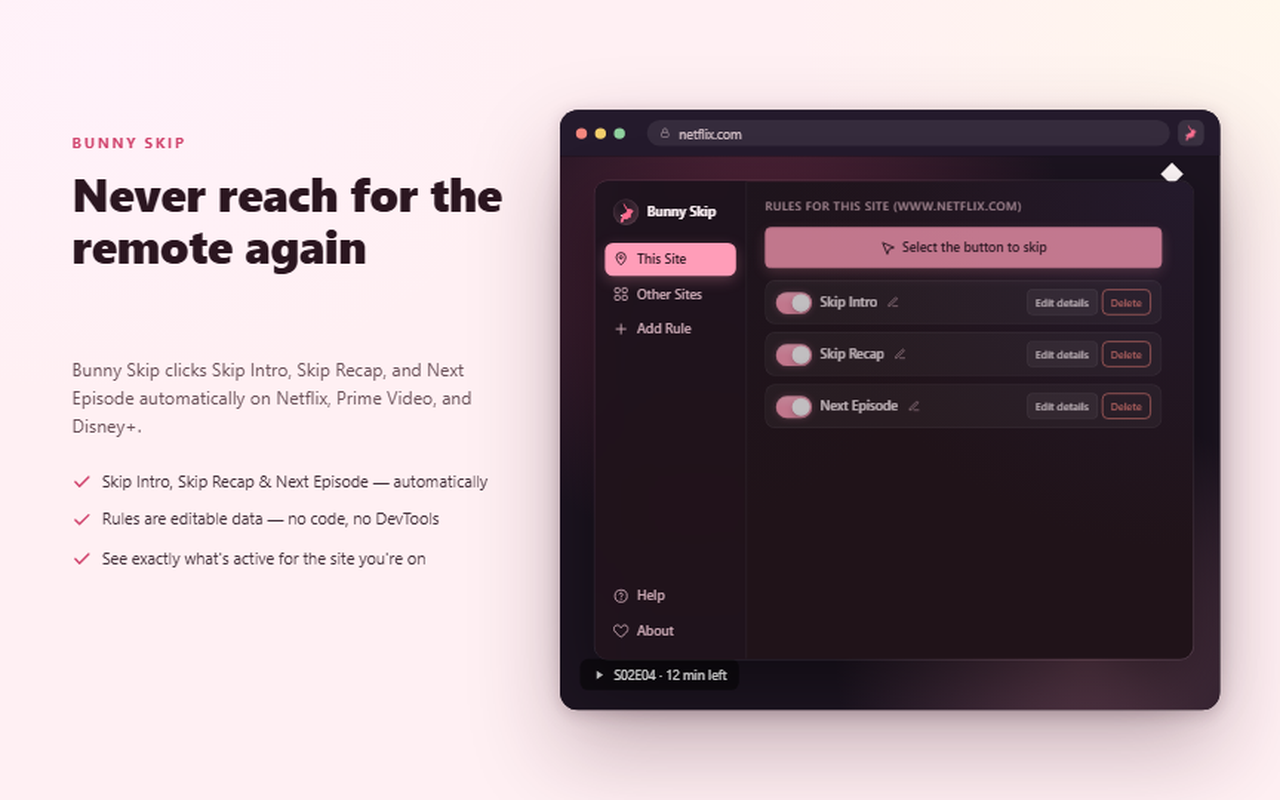
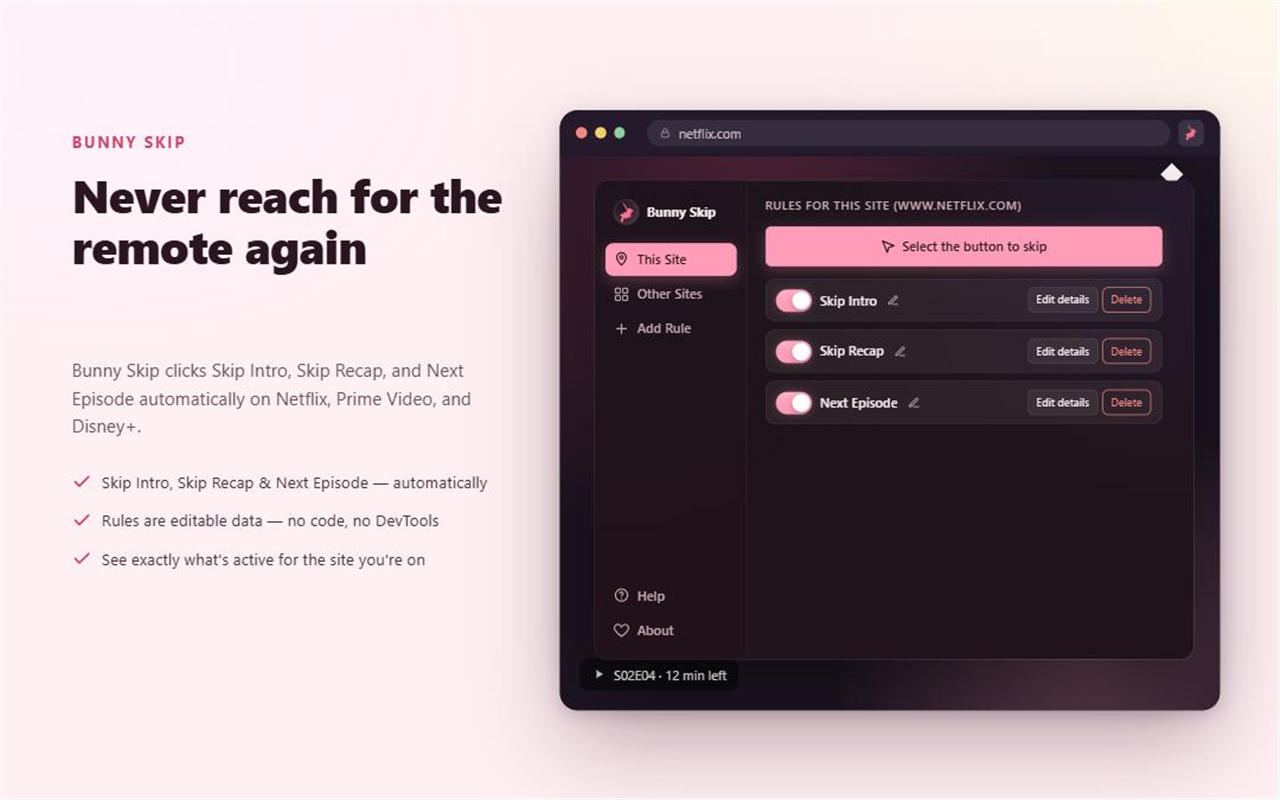
Pre-submission fixes: disable debug logging, regenerate broken store screenshots, add publishing checklist
- content/engine.js: DEBUG was left on, spamming console.debug on every
  Netflix/Prime/Disney+ page load
- store-assets: screenshot-2 and screenshot-3 both rendered the default
  "This Site" panel instead of "Other Sites"/"Add Rule" as their filenames
  and marketing copy promised. Root cause was CSS transitions never
  completing on a backgrounded tab during automated capture, so the nav
  highlight (and sometimes the panel switch) froze at its pre-click state;
  popup-mock.html now disables transitions/animations for the
  screenshot-only harness so captures are deterministic
- README.md: seed rules section said Skip Intro matches via aria-label,
  but seed-rules.json actually uses data-attribute (data-uia)
- Add CHROME_STORE_PUBLISHING.md, the checklist README.md already
  referenced but never existed

diff --git a/store-assets/popup-mock.html b/store-assets/popup-mock.html
@@ -9,6 +9,18 @@
        box (the real Chrome popup window size) — keep that untouched so the
        capture is pixel-accurate to what a user actually sees. */
     html { background: transparent; }
+
+    /* Screenshot-harness only: CSS transitions (e.g. the nav tab's
+       background-color fade) don't advance while a tab is backgrounded,
+       which is exactly the state an automated screenshot capture runs in
+       — so a transitioned property can get stuck showing its pre-click
+       value even though the class/content change already applied.
+       Disabling transitions/animations here makes captures deterministic
+       without touching the real popup.css a user actually sees. */
+    *, *::before, *::after {
+      transition: none !important;
+      animation: none !important;
+    }
   </style>
 </head>
 <body>

diff --git a/content/engine.js b/content/engine.js
@@ -8,7 +8,7 @@
 // this file only ever reads rule fields to build CSS selector strings or
 // to do plain string comparisons.
 
-const DEBUG = true;
+const DEBUG = false;
 
 // Module-level state.
 let activeRules = [];

diff --git a/CHROME_STORE_PUBLISHING.md b/CHROME_STORE_PUBLISHING.md
@@ -1,0 +1,85 @@
+# Publishing Bunny Skip to the Chrome Web Store
+
+Checklist for taking this extension from "load unpacked" to a live Chrome
+Web Store listing.
+
+## 1. Package the extension
+
+- [ ] Bump `version` in `manifest.json` if this isn't the first submission.
+- [ ] Zip the extension source only — `manifest.json`, `background.js`,
+      `content/`, `popup/`, `storage/`, `icons/`, `seed-rules.json`.
+      Do **not** include `store-assets/`, `.git/`, `.idea/`, `.claude/`,
+      `README.md`, `LICENSE`, or `PRIVACY_POLICY.md` in the upload zip —
+      none of it is needed by the runtime and keeping the package minimal
+      makes review easier.
+- [ ] Load the zipped contents as an unpacked extension one more time in a
+      clean profile to confirm nothing outside the zipped files was needed.
+
+## 2. Developer account
+
+- [ ] Register (or confirm access to) a Chrome Web Store developer account
+      at https://chrome.google.com/webstore/devconsole — one-time $5
+      registration fee if this is a new account.
+
+## 3. Store listing content
+
+- [ ] **Name**: Bunny Skip
+- [ ] **Summary** (132 chars max): short version of the `manifest.json`
+      description.
+- [ ] **Description**: expand on what it does, the three supported sites,
+      and the "rules are editable data, nothing is hardcoded" pitch from
+      the README.
+- [ ] **Category**: Productivity (or Tools).
+- [ ] **Icon**: `icons/icon128.png` (already correct size).
+- [ ] **Screenshots** (1280x800, at least one required): use the files in
+      `store-assets/` — `screenshot-1-this-site.png`,
+      `screenshot-2-other-sites.png`, `screenshot-3-add-rule.png`.
+      Before uploading, open each PNG and confirm it actually shows the
+      panel its filename promises (This Site / Other Sites / Add Rule) —
+      the mock popup switches panels via JS after the page loads, so a
+      capture taken too early will silently freeze on the default panel.
+- [ ] **Small promo tile** (440x280, optional but recommended):
+      `store-assets/promo-small-440x280.png`.
+- [ ] **Marquee promo tile** (1400x560, optional): 
+      `store-assets/promo-marquee-1400x560.png`.
+
+## 4. Privacy practices tab
+
+- [ ] Host `PRIVACY_POLICY.md` somewhere public (GitHub repo's rendered
+      Markdown page is fine) and paste that URL into the listing's privacy
+      policy field.
+- [ ] In the "Permissions justification" fields, use the table in
+      `PRIVACY_POLICY.md` — one sentence per permission (`storage`,
+      `activeTab`, `scripting`, and the three host permissions).
+- [ ] Declare data usage: no data collected, no data sold, no data used for
+      purposes unrelated to the extension's core function — matches
+      `PRIVACY_POLICY.md`.
+- [ ] Single-purpose description: "Automatically clicks Skip Intro / Skip
+      Recap / Next Episode buttons on Netflix, Prime Video, and Disney+,
+      using user-editable rules."
+
+## 5. Distribution
+
+- [ ] Visibility: Public.
+- [ ] Regions: all regions (no restriction needed — no region-specific
+      content or licensing).
+- [ ] Pricing: free.
+
+## 6. Before hitting submit
+
+- [ ] Re-read `README.md`'s "What it does — and doesn't do" section and
+      confirm the listing description doesn't overclaim (no ad-skipping,
+      no DRM bypass, no download/export).
+- [ ] Confirm `manifest.json`'s `host_permissions` only lists the three
+      sites actually supported — no broad `<all_urls>` style grant.
+- [ ] Submit for review.
+
+## 7. After submission
+
+- [ ] Initial review is typically a few business days for a new item;
+      expect a longer review the first time an extension requests
+      `scripting` + host permissions together, since that combination gets
+      extra scrutiny.
+- [ ] If rejected, the most common reason for an extension like this is an
+      unclear permissions justification — tighten the wording in the
+      privacy practices tab rather than the code.

diff --git a/README.md b/README.md
@@ -58,7 +58,7 @@ On first install, three Netflix rules are seeded automatically (Skip Intro, Skip
 
 Netflix ships with three seed rules out of the box (`seed-rules.json`), since its `data-uia` attributes are the most stable of the three supported sites:
 
-- Skip Intro (`aria-label`)
+- Skip Intro (`data-attribute`, `data-uia="player-skip-intro"`)
 - Skip Recap (`aria-label`)
 - Next Episode (`data-attribute`, `data-uia="next-episode-seamless-button"`)
 
